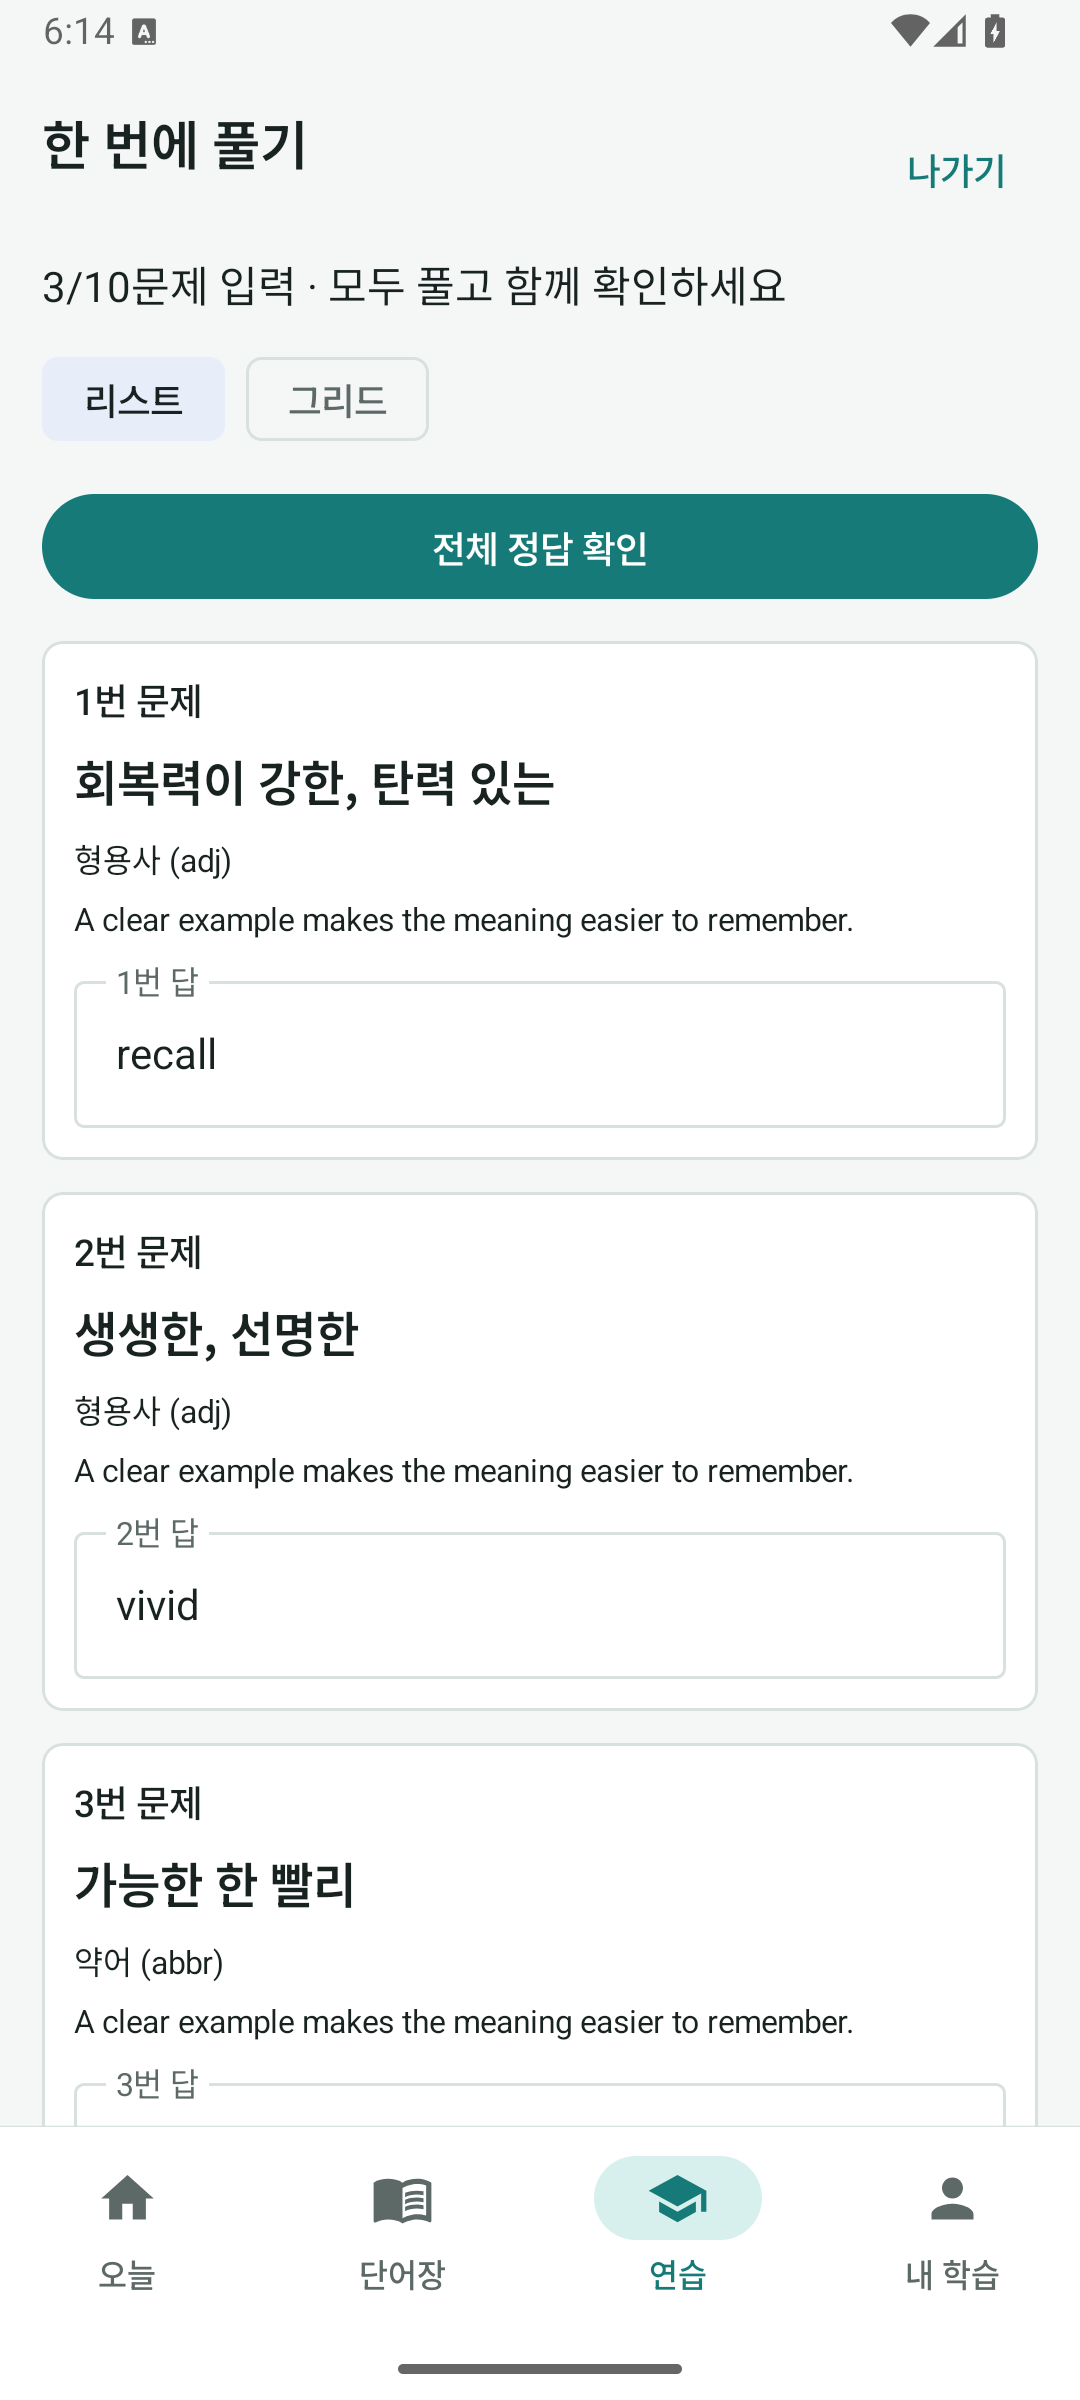
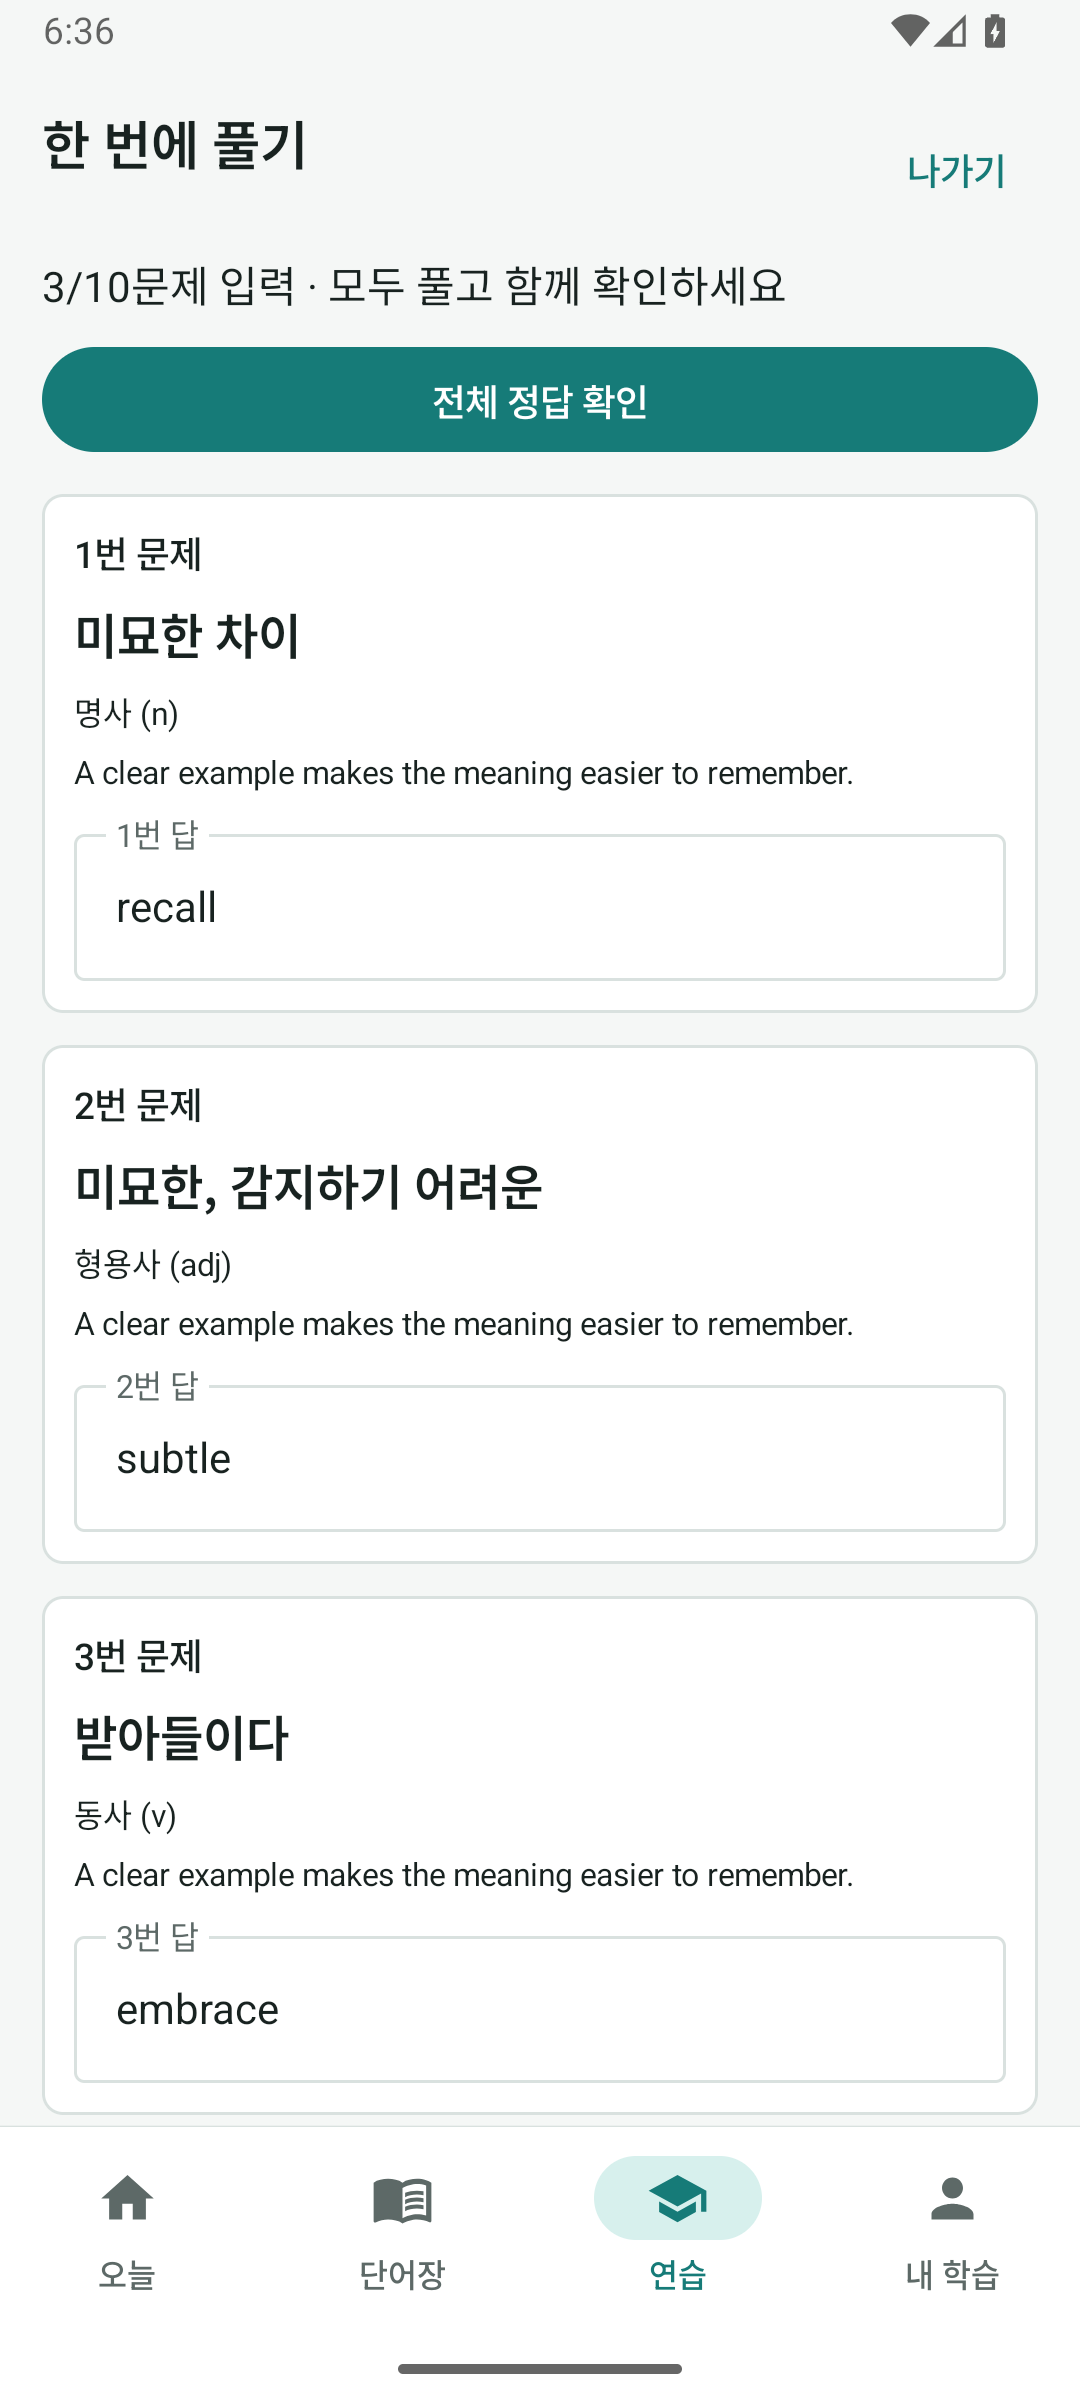
fix: simplify batch review to a single vertical layout

diff --git a/app/src/main/java/com/example/vocanote/features/review/presentation/BatchReviewContent.kt b/app/src/main/java/com/example/vocanote/features/review/presentation/BatchReviewContent.kt
@@ -2,14 +2,15 @@ package com.example.vocanote.features.review.presentation
 
 import androidx.compose.foundation.BorderStroke
 import androidx.compose.foundation.layout.*
-import androidx.compose.foundation.lazy.grid.*
+import androidx.compose.foundation.lazy.LazyColumn
+import androidx.compose.foundation.lazy.itemsIndexed
+import androidx.compose.foundation.lazy.rememberLazyListState
 import androidx.compose.foundation.text.KeyboardActions
 import androidx.compose.foundation.text.KeyboardOptions
 import androidx.compose.material.icons.Icons
 import androidx.compose.material.icons.automirrored.filled.VolumeUp
 import androidx.compose.material3.*
 import androidx.compose.runtime.*
-import androidx.compose.runtime.saveable.rememberSaveable
 import androidx.compose.ui.Modifier
 import androidx.compose.ui.platform.LocalSoftwareKeyboardController
 import androidx.compose.ui.platform.testTag
@@ -33,24 +34,21 @@ internal fun BatchReviewContent(
     onExit: () -> Unit,
     modifier: Modifier = Modifier
 ) {
-    var grid by rememberSaveable { mutableStateOf(false) }
     var attempted by remember(state.id) { mutableStateOf(false) }
     val graded = state.phase == ReviewPhase.Graded
     val missing = state.questions.filter { state.inputs[it.wordId].isNullOrBlank() }
     val results = state.answers.associateBy { it.wordId }
-    val listState = rememberLazyGridState()
+    val listState = rememberLazyListState()
     val coroutineScope = rememberCoroutineScope()
     val keyboard = LocalSoftwareKeyboardController.current
     val speaker = rememberWordSpeaker()
-    LazyVerticalGrid(
-        columns = GridCells.Fixed(if (grid) 2 else 1),
+    LazyColumn(
         state = listState,
         modifier = modifier.fillMaxSize().testTag("batch_questions"),
         contentPadding = PaddingValues(VocaSpacing.large),
-        horizontalArrangement = Arrangement.spacedBy(VocaSpacing.medium),
         verticalArrangement = Arrangement.spacedBy(VocaSpacing.medium)
     ) {
-        item(span = { GridItemSpan(maxLineSpan) }) {
+        item {
             Column(verticalArrangement = Arrangement.spacedBy(VocaSpacing.small)) {
                 Row(horizontalArrangement = Arrangement.SpaceBetween, modifier = Modifier.fillMaxWidth()) {
                     Text("한 번에 풀기", style = MaterialTheme.typography.headlineSmall)
@@ -58,10 +56,6 @@ internal fun BatchReviewContent(
                 }
                 Text(if (graded) "${state.questions.size}문제 중 ${state.answers.count { it.isCorrect }}개 정답"
                     else "${state.questions.size - missing.size}/${state.questions.size}문제 입력 · 모두 풀고 함께 확인하세요")
-                Row(horizontalArrangement = Arrangement.spacedBy(VocaSpacing.small)) {
-                    FilterChip(selected = !grid, onClick = { grid = false }, label = { Text("리스트") })
-                    FilterChip(selected = grid, onClick = { grid = true }, label = { Text("그리드") })
-                }
                 if (graded) {
                     ReviewSaveStatus(state, onRetrySave)
                     Button(onClick = onSummary, modifier = Modifier.fillMaxWidth()) { Text("학습 요약 보기") }

diff --git a/app/src/androidTest/java/com/example/vocanote/LearningFlowTest.kt b/app/src/androidTest/java/com/example/vocanote/LearningFlowTest.kt
@@ -36,7 +36,7 @@ class LearningFlowTest {
         compose.onNodeWithText("record", useUnmergedTree = true).assertDoesNotExist()
     }
 
-    @Test fun twentyQuestionBatchGradesOnceAndKeepsAnswersAcrossLayouts() {
+    @Test fun twentyQuestionBatchGradesOnceAndKeepsAnswersWhileScrolling() {
         val session = ReviewSessionViewModel()
         session.start(words, ReviewMode.Writing, ReviewPresentation.Batch, ReviewScope.All, 20)
         var saves = 0
@@ -44,9 +44,10 @@ class LearningFlowTest {
             ReviewScreen(words, ReviewSettings(), { _, _, _, complete -> saves++; complete(null) }, {}, session = session)
         } }
         compose.onNodeWithText("1번 답").performTextInput("wrong")
-        compose.onNodeWithText("그리드").performClick()
+        compose.onNodeWithTag("batch_questions").performScrollToIndex(20)
+        compose.onNodeWithText("20번 답").assertExists()
+        compose.onNodeWithTag("batch_questions").performScrollToIndex(0)
         compose.onNodeWithText("1번 답").assertTextContains("wrong")
-        compose.onNodeWithText("리스트").performClick()
         compose.runOnIdle {
             for (question in session.state.questions.drop(1)) session.input(question.wordId, question.answer)
         }

diff --git a/README.md b/README.md
@@ -9,7 +9,7 @@
   <p>Kotlin · Jetpack Compose · Material 3 · Firebase Auth / Firestore · Android 7.0+</p>
 </div>
 
-앱과 웹에서 같은 Google 계정으로 로그인하면 단어, 뜻별 품사, 학습 설정과 복습 기록을 이어서 사용할 수 있습니다. **현재 버전은 1.1.0**입니다.
+앱과 웹에서 같은 Google 계정으로 로그인하면 단어, 뜻별 품사, 학습 설정과 복습 기록을 이어서 사용할 수 있습니다. **현재 버전은 1.1.1**입니다.
 
 ## 화면
 
@@ -26,7 +26,7 @@
   </tr>
   <tr>
     <td align="center"><img src="docs/screenshots/review.png" width="300" alt="연습 방식과 범위 설정"><br><strong>연습 설정</strong><br>한 문제씩 또는 한 번에, 5~30문제 선택</td>
-    <td align="center"><img src="docs/screenshots/worksheet.png" width="300" alt="여러 문제를 동시에 푸는 일괄 학습"><br><strong>한 번에 풀기</strong><br>리스트·그리드로 답을 입력하고 일괄 채점</td>
+    <td align="center"><img src="docs/screenshots/worksheet.png" width="300" alt="여러 문제를 동시에 푸는 일괄 학습"><br><strong>한 번에 풀기</strong><br>문제를 아래로 이어서 풀고 일괄 채점</td>
   </tr>
   <tr>
     <td align="center"><img src="docs/screenshots/worksheet-results.png" width="300" alt="일괄 채점의 정답과 오답 비교"><br><strong>답안 비교</strong><br>모든 뜻 확인, 오답 재연습, 저장 재시도</td>
@@ -43,7 +43,7 @@
 | 연관 정보 | 예문, 메모, 유의어·반의어·파생어·혼동어·숙어/연어, 기기 TTS |
 | 탐색 | 모든 뜻과 품사·예문·연관어 검색, 복습/오답 필터, 최근/알파벳/학습 우선순 정렬 |
 | 한 문제씩 | 기억 카드·뜻 고르기·직접 쓰기·듣고 쓰기, 정답 확인 후 Enter로 다음 문제 |
-| 한 번에 풀기 | 뜻 고르기·직접 쓰기·듣고 쓰기, 5~30문제, 리스트·그리드, 빈 답 검증, 일괄 채점 |
+| 한 번에 풀기 | 뜻 고르기·직접 쓰기·듣고 쓰기, 5~30문제, 세로로 이어지는 문제, 빈 답 검증, 일괄 채점 |
 | 출제 범위 | 전체는 등록일·정답률·복습일과 무관하게 동일 확률로 출제, 오늘 복습·오답 집중은 복습 우선순위 유지 |
 | 결과 | 전체 답안 다시 보기, 틀린 단어 재연습, 저장 실패 시 답안을 유지해 재시도 |
 | 간격 반복 | 정답 `1일 → 3일 → 이전 간격의 2배(최대 180일)`, 오답 `10분` |
@@ -129,7 +129,7 @@ adb install -r app/build/outputs/apk/androidTest/debug/app-debug-androidTest.apk
 adb shell am instrument -w com.example.vocanote.test/androidx.test.runner.AndroidJUnitRunner
 ```
 
-기기 UI 테스트는 로그인 없이 테스트용 데이터로 여러 뜻 입력, 연속 추가, Enter 진행, 20문제 일괄 채점, 레이아웃 전환, 저장 실패 재시도를 확인합니다. 테스트할 기기는 잠금을 풀어 두어야 합니다.
+기기 UI 테스트는 로그인 없이 테스트용 데이터로 여러 뜻 입력, 연속 추가, Enter 진행, 20문제 일괄 채점, 스크롤 중 답안 유지, 저장 실패 재시도를 확인합니다. 테스트할 기기는 잠금을 풀어 두어야 합니다.
 
 Debug 전용 UI 카탈로그는 개인 계정과 연결되지 않습니다. Release 빌드에는 포함되지 않습니다.
 

diff --git a/CHANGELOG.md b/CHANGELOG.md
@@ -1,5 +1,11 @@
 # 변경 기록
 
+## 1.1.1 · 2026-10-31
+
+- 리스트·그리드 선택을 제거하고 문제를 세로로 이어서 풀도록 통일했습니다.
+- 문제 수 선택, 일괄 채점, 답안 비교와 오답 재연습은 유지합니다.
+- 스크롤 중 입력한 답이 유지되는지 검증하고 README 학습 이미지를 갱신했습니다.
+
 ## 1.1.0 · 2026-10-31
 
 - 앱·웹이 같은 `meanings` 배열을 사용하도록 저장·읽기·편집·검색을 통일했습니다.
